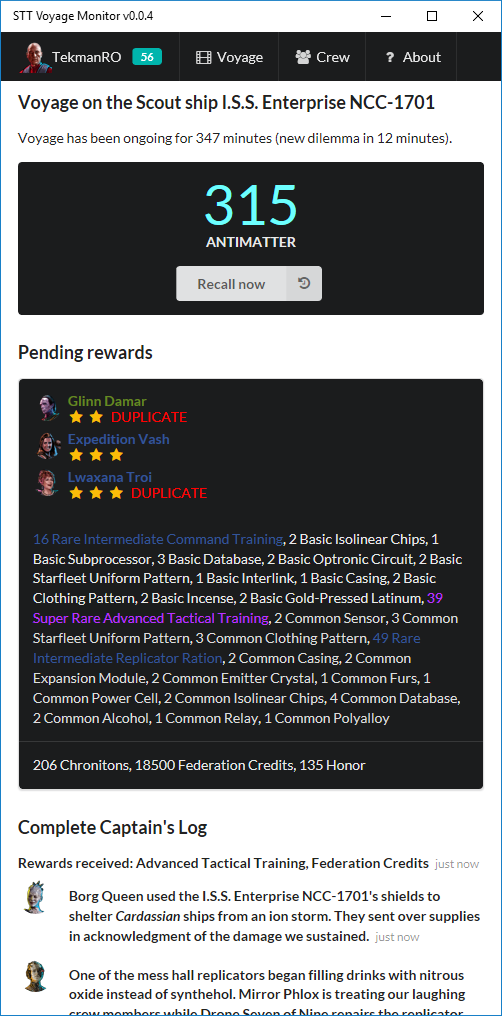
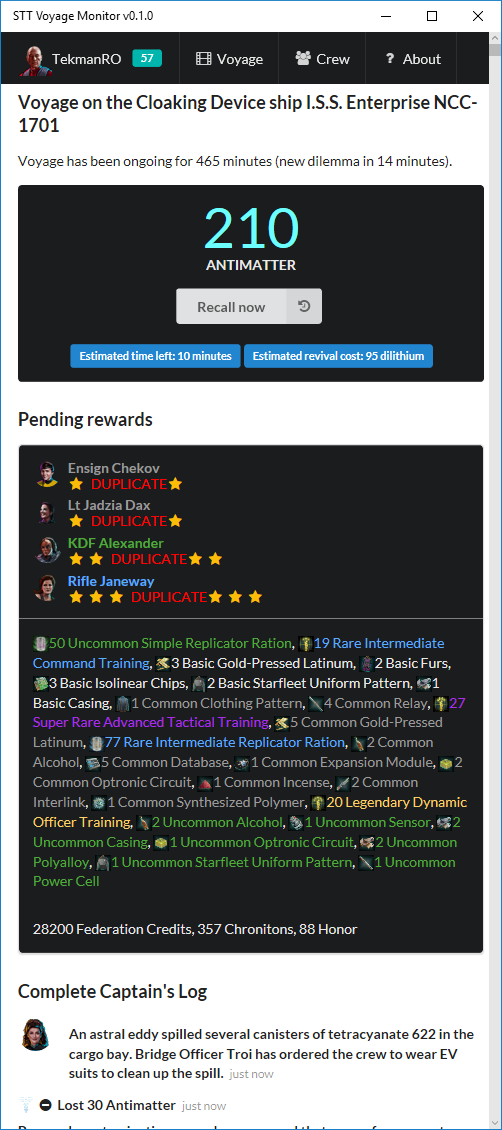
Remove all references to stt.wiki; add images for items.

diff --git a/app/index.tsx b/app/index.tsx
@@ -109,34 +109,34 @@ class App extends React.Component<any, IAppState> {
                                         <br/><br/>
 
                                         <div className="ui label black">
-                                            <img src="https://stt.wiki/w/images/thumb/1/12/Chroniton_icon.png/24px-Chroniton_icon.png" className="ui inline image" />&nbsp;
+                                            <img src={CONFIG.SPRITES['energy_icon'].url} className="ui inline image" />&nbsp;
                                             {Math.min(Math.floor(STTApi.playerData.character.seconds_from_replay_energy_basis / STTApi.playerData.character.replay_energy_rate), STTApi.playerData.character.replay_energy_max) + STTApi.playerData.character.replay_energy_overflow}
                                         </div>
 
                                         <div className="ui label black">
-                                            <img src="https://stt.wiki/w/images/thumb/1/1c/Dilithium_sm.png/19px-Dilithium_sm.png" className="ui inline image" />&nbsp;
+                                            <img src={CONFIG.SPRITES['images_currency_pp_currency_0'].url} className="ui inline image" />&nbsp;
                                             {STTApi.playerData.premium_purchasable}
                                         </div>
 
                                         <div className="ui label black">
-                                            <img src="https://stt.wiki/w/images/thumb/2/20/Merit_icon.png/22px-Merit_icon.png" className="ui inline image" />&nbsp;
+                                            <img src={CONFIG.SPRITES['images_currency_pe_currency_0'].url} className="ui inline image" />&nbsp;
                                             {STTApi.playerData.premium_earnable}
                                         </div>
 
                                         <br/><br/>
 
                                         <div className="ui label black">
-                                            <img src="https://stt.wiki/w/images/thumb/d/d4/Honor.png/24px-Honor.png" className="ui inline image" />&nbsp;
+                                            <img src={CONFIG.SPRITES['images_currency_honor_currency_0'].url} className="ui inline image" />&nbsp;
                                             {STTApi.playerData.honor}
                                         </div>
 
                                         <div className="ui label black">
-                                            <img src="https://stt.wiki/w/images/thumb/9/91/Credits_sm.png/24px-Credits_sm.png" className="ui inline image" />&nbsp;
+                                            <img src={CONFIG.SPRITES['images_currency_sc_currency_0'].url} className="ui inline image" />&nbsp;
                                             {STTApi.playerData.money}
                                         </div>
 
                                         <div className="ui label black">
-                                            <img src="https://stt.wiki/w/images/thumb/1/1e/Ticket.png/18px-Ticket.png" className="ui inline image" />&nbsp;
+                                            <img src={CONFIG.SPRITES['cadet_icon'].url} className="ui inline image" />&nbsp;
                                             {STTApi.playerData.character.cadet_tickets.current} / {STTApi.playerData.character.cadet_tickets.max}
                                         </div>
 
@@ -212,13 +212,10 @@ class App extends React.Component<any, IAppState> {
 
     _renderFeedbackPage() {
         return <div className="ui text container">
-            <h2 className="ui header">Star Trek Timelines Voyage Monitor v0.1.0</h2>
+            <h2 className="ui header">Star Trek Timelines Voyage Monitor v0.1.5</h2>
             <p>A tool to help with voyages in Star Trek Timelines</p>
-
             <p><b>DISCLAIMER</b> This tool is provided "as is", without warranty of any kind. Use at your own risk! It should be understood that <i>Star Trek Timelines</i> content and materials are trademarks and copyrights of <a href='https://www.disruptorbeam.com/tos/' target='_blank'>Disruptor Beam, Inc.</a> or its licensors. All rights reserved. This tool is neither endorsed by nor affiliated with Disruptor Beam, Inc.</p>
-            <p>All images (crew portraits, items) displayed in the tool are references to <a href='https://stt.wiki/wiki/Main_Page' target='_blank'>stt.wiki</a>.</p>
-
-            <p>For details about this tool, see the <a href='https://github.com/IAmPicard/STTVoyage' target='_blank'>GitHub page</a>.</p>
+            <p>For details about this tool, see the <a href='https://github.com/IAmPicard/STTVoyage' target='_blank'>GitHub page</a>. For information about other tools for Star Trek Timelines, see <a href='https://iampicard.github.io/' target='_blank'>here</a>.</p>
 
             <h3 className="ui teal header">
                 <div className="content">Your feedback is appreciated</div>

diff --git a/app/VoyageLog.tsx b/app/VoyageLog.tsx
@@ -137,15 +137,29 @@ export class VoyageLog extends React.Component<any, IVoyageLogState> {
                     }
                 }
 
-                this.setState({
-                    dataLoaded: true,
-                    voyage: STTApi.playerData.character.voyage[0],
-                    antimatter: STTApi.playerData.character.voyage[0].hp,
-                    voyageNarrative: voyageNarrative,
-                    lastDilemmaNotification: STTApi.playerData.character.voyage[0].dilemma ? STTApi.playerData.character.voyage[0].dilemma.id : 0
+                // Fill in icons for all the loot (should be fast since we pre-cached most items' icons)
+                let iconPromises: Array<Promise<void>> = [];
+                STTApi.playerData.character.voyage[0].pending_rewards.loot.forEach((loot: any) => {
+                    if (loot.type == 2) {
+                        loot.iconUrl = '';
+                        iconPromises.push(STTApi.imageProvider.getItemImageUrl(loot, loot.id).then((found) => {
+                            let loot = STTApi.playerData.character.voyage[0].pending_rewards.loot.find((item: any) => item.id == found.id);
+                            loot.iconUrl = found.url;
+                        }));
+                    }
                 });
 
-                this.animateAntimatter();
+                Promise.all(iconPromises).then(() => {
+                    this.setState({
+                        dataLoaded: true,
+                        voyage: STTApi.playerData.character.voyage[0],
+                        antimatter: STTApi.playerData.character.voyage[0].hp,
+                        voyageNarrative: voyageNarrative,
+                        lastDilemmaNotification: STTApi.playerData.character.voyage[0].dilemma ? STTApi.playerData.character.voyage[0].dilemma.id : 0
+                    });
+
+                    this.animateAntimatter();
+                });
             });
         }
     }
@@ -256,13 +270,18 @@ export class VoyageLog extends React.Component<any, IVoyageLogState> {
 
                 <div className="ui inverted segment">
                     {this.state.voyage.pending_rewards.loot.filter((loot: any) => loot.type == 2).map((loot: any, index: number) => {
-                        return (<span key={index} style={{ color: loot.rarity && rarityRes[loot.rarity].color }}>{loot.quantity} {(loot.rarity == null) ? '' : rarityRes[loot.rarity].name} {loot.full_name}</span>);
+                        return (<span key={index} style={{ color: loot.rarity && rarityRes[loot.rarity].color }}>
+                            <img src={loot.iconUrl} className="ui inline image skillImage" />
+                            {loot.quantity} {(loot.rarity == null) ? '' : rarityRes[loot.rarity].name} {loot.full_name}
+                            </span>);
                     }).reduce((prev: any, curr: any) => [prev, ', ', curr])}
                 </div>
 
                 <div className="ui inverted segment">
                     {this.state.voyage.pending_rewards.loot.filter((loot: any) => loot.type == 3).map((loot: any, index: number) => {
-                        return (<span key={index} style={{ color: loot.rarity && rarityRes[loot.rarity].color }}>{loot.quantity} {(loot.rarity == null) ? '' : rarityRes[loot.rarity].name} {loot.full_name}</span>);
+                        return (<span key={index} style={{ color: loot.rarity && rarityRes[loot.rarity].color }}>
+                            {loot.quantity} {(loot.rarity == null) ? '' : rarityRes[loot.rarity].name} {loot.full_name}
+                            </span>);
                     }).reduce((prev: any, curr: any) => [prev, ', ', curr])}
                 </div>
             </div>);
